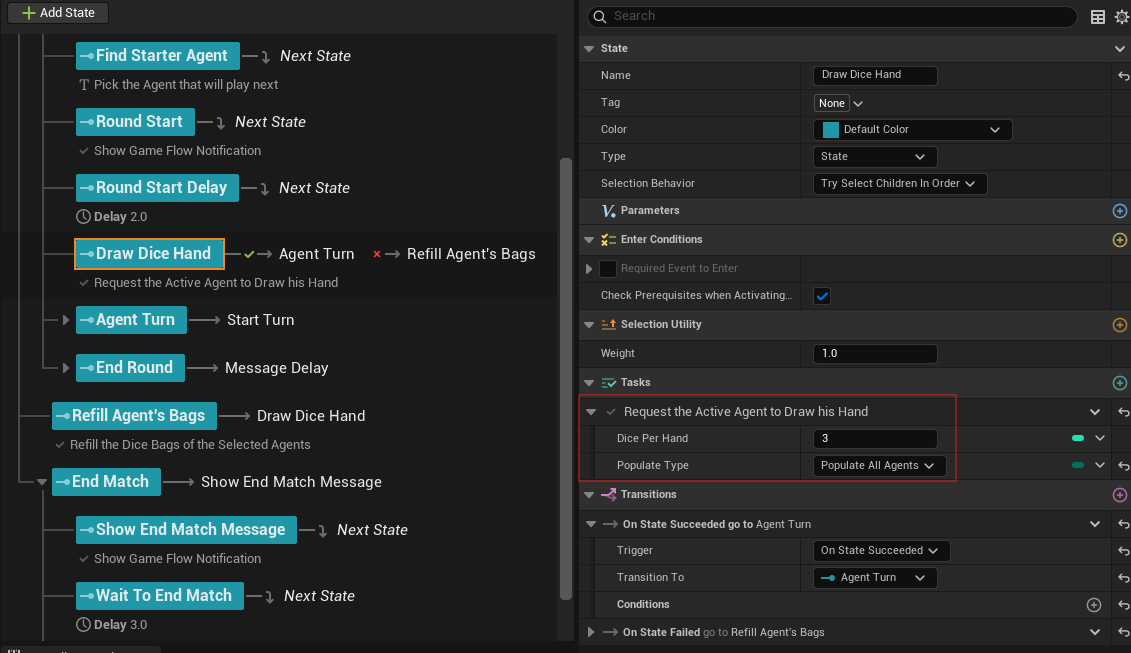
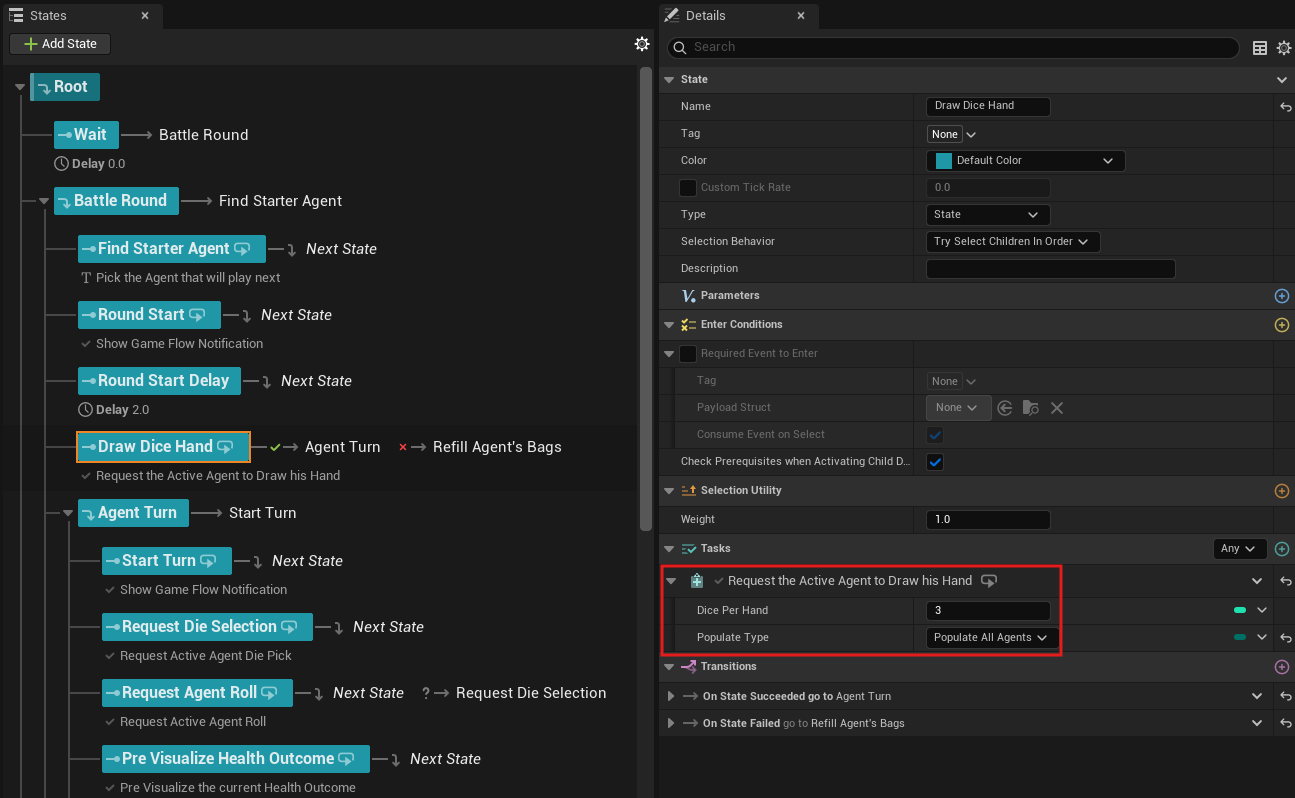
Final version of the StateTrees blog with updated images.

diff --git a/_layouts/post.html b/_layouts/post.html
@@ -31,7 +31,7 @@
 
     <div class="wrapper">
 
-      <section>
+      <section id="main-content">
         <h1 class="page-title">{{ page.title | default: site.github.repository_name }}</h1>
         {{ content }}
         <div id="title">
